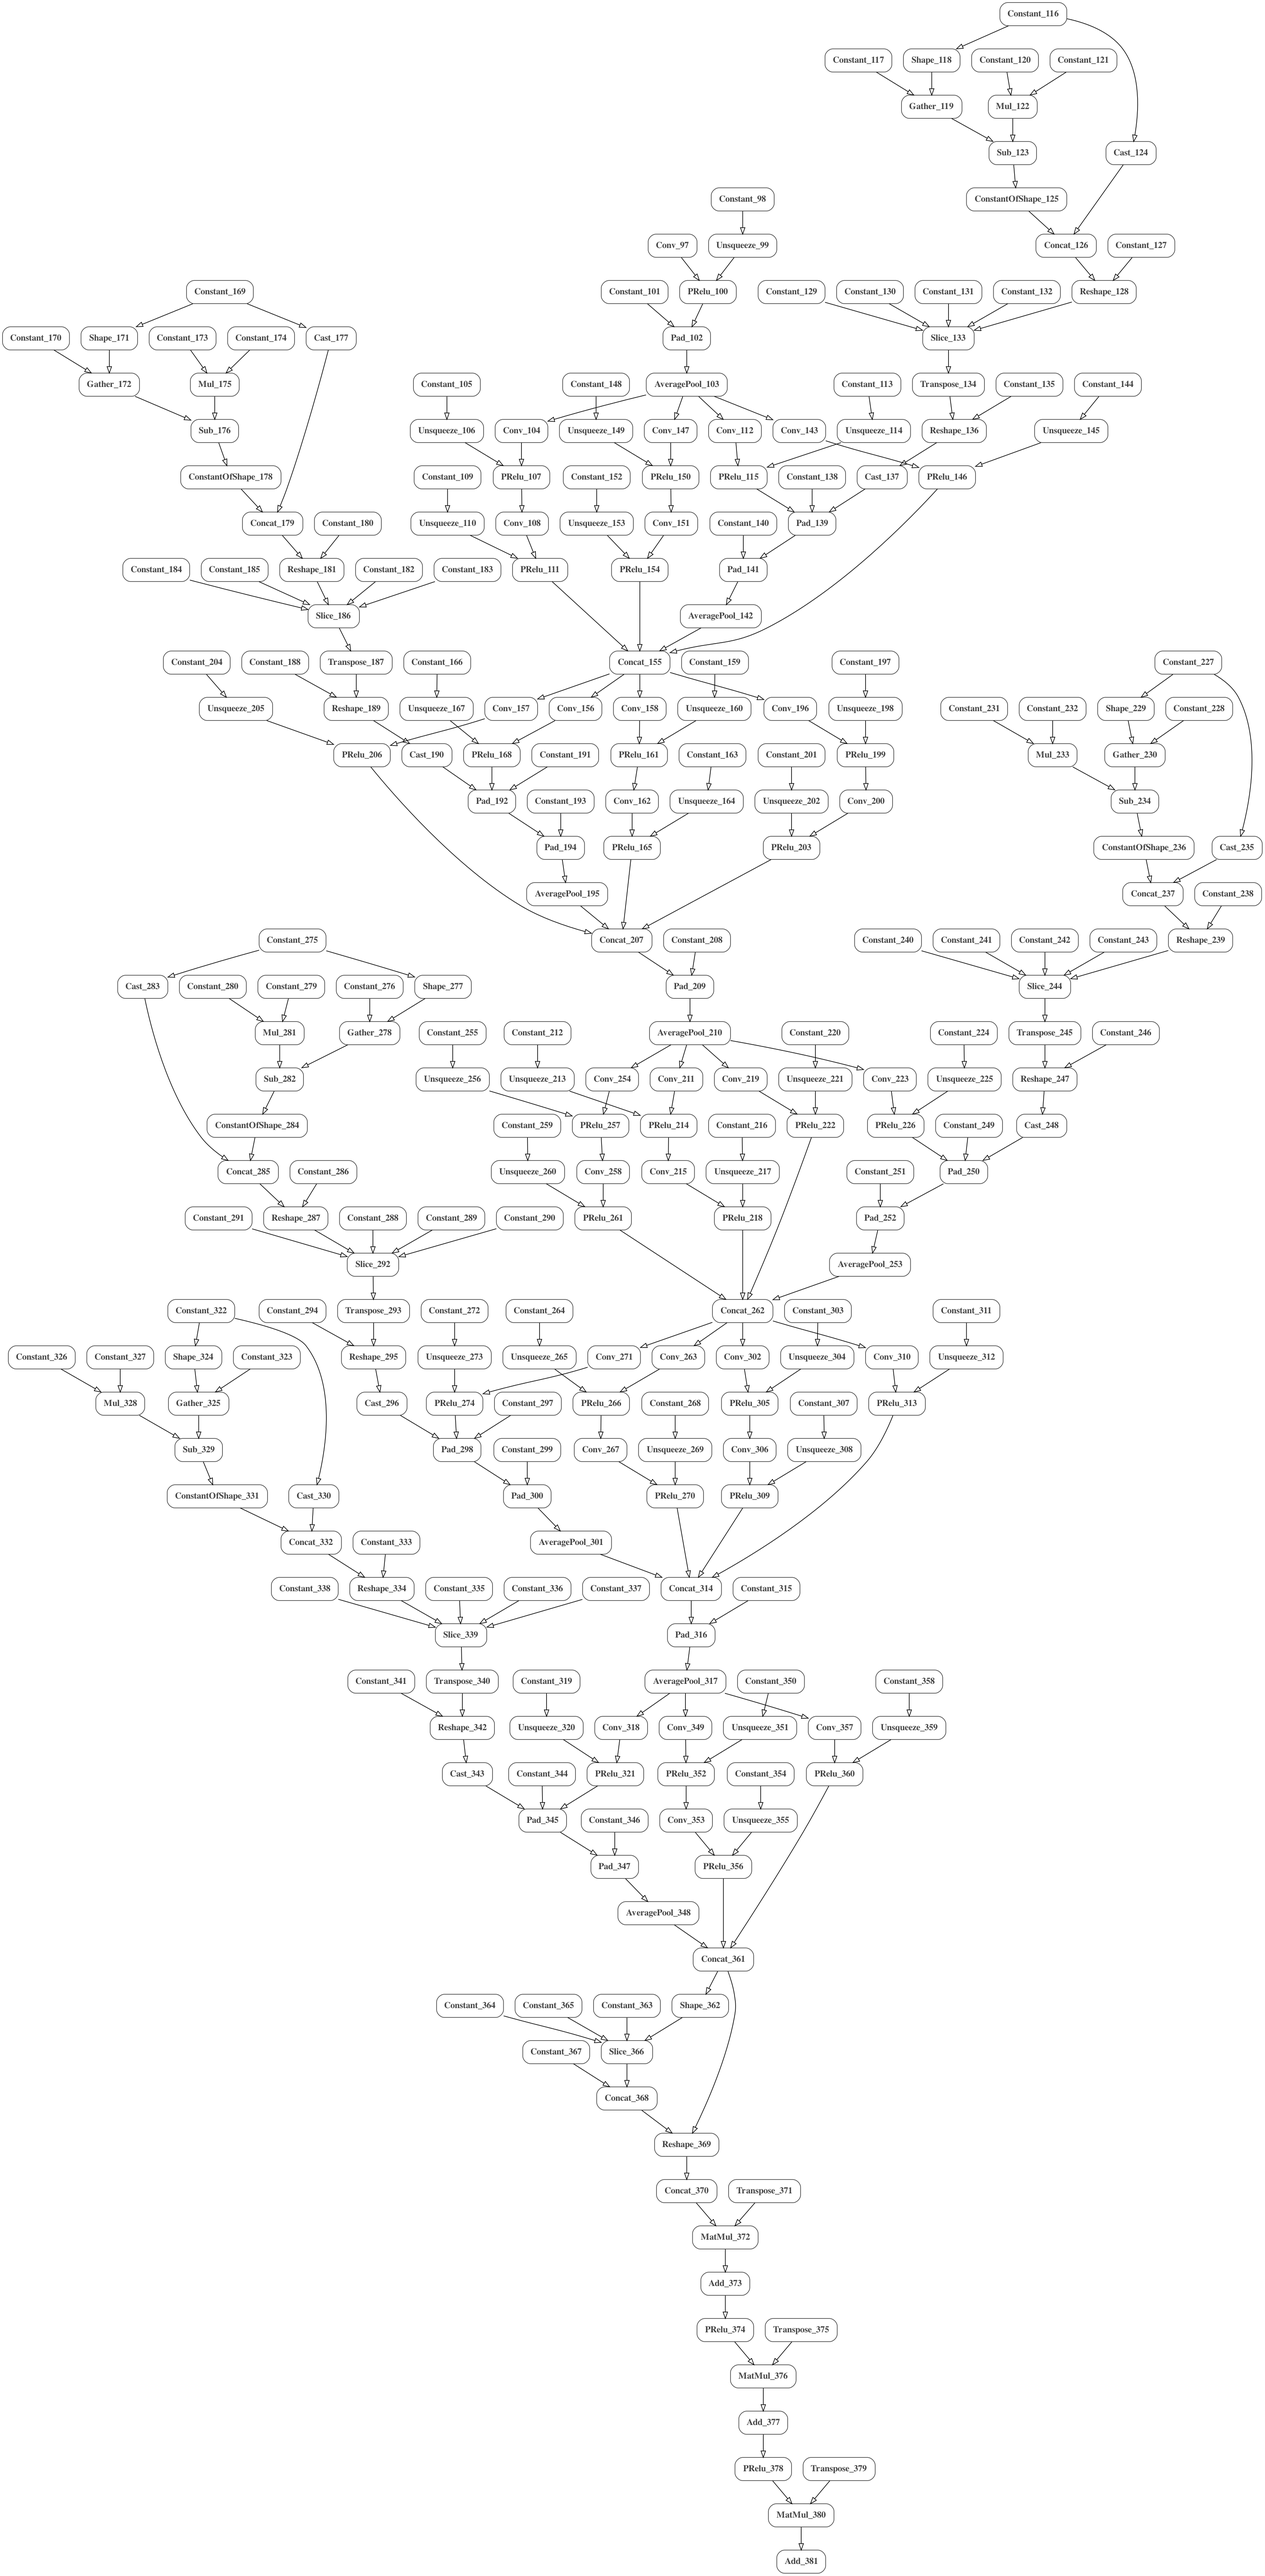
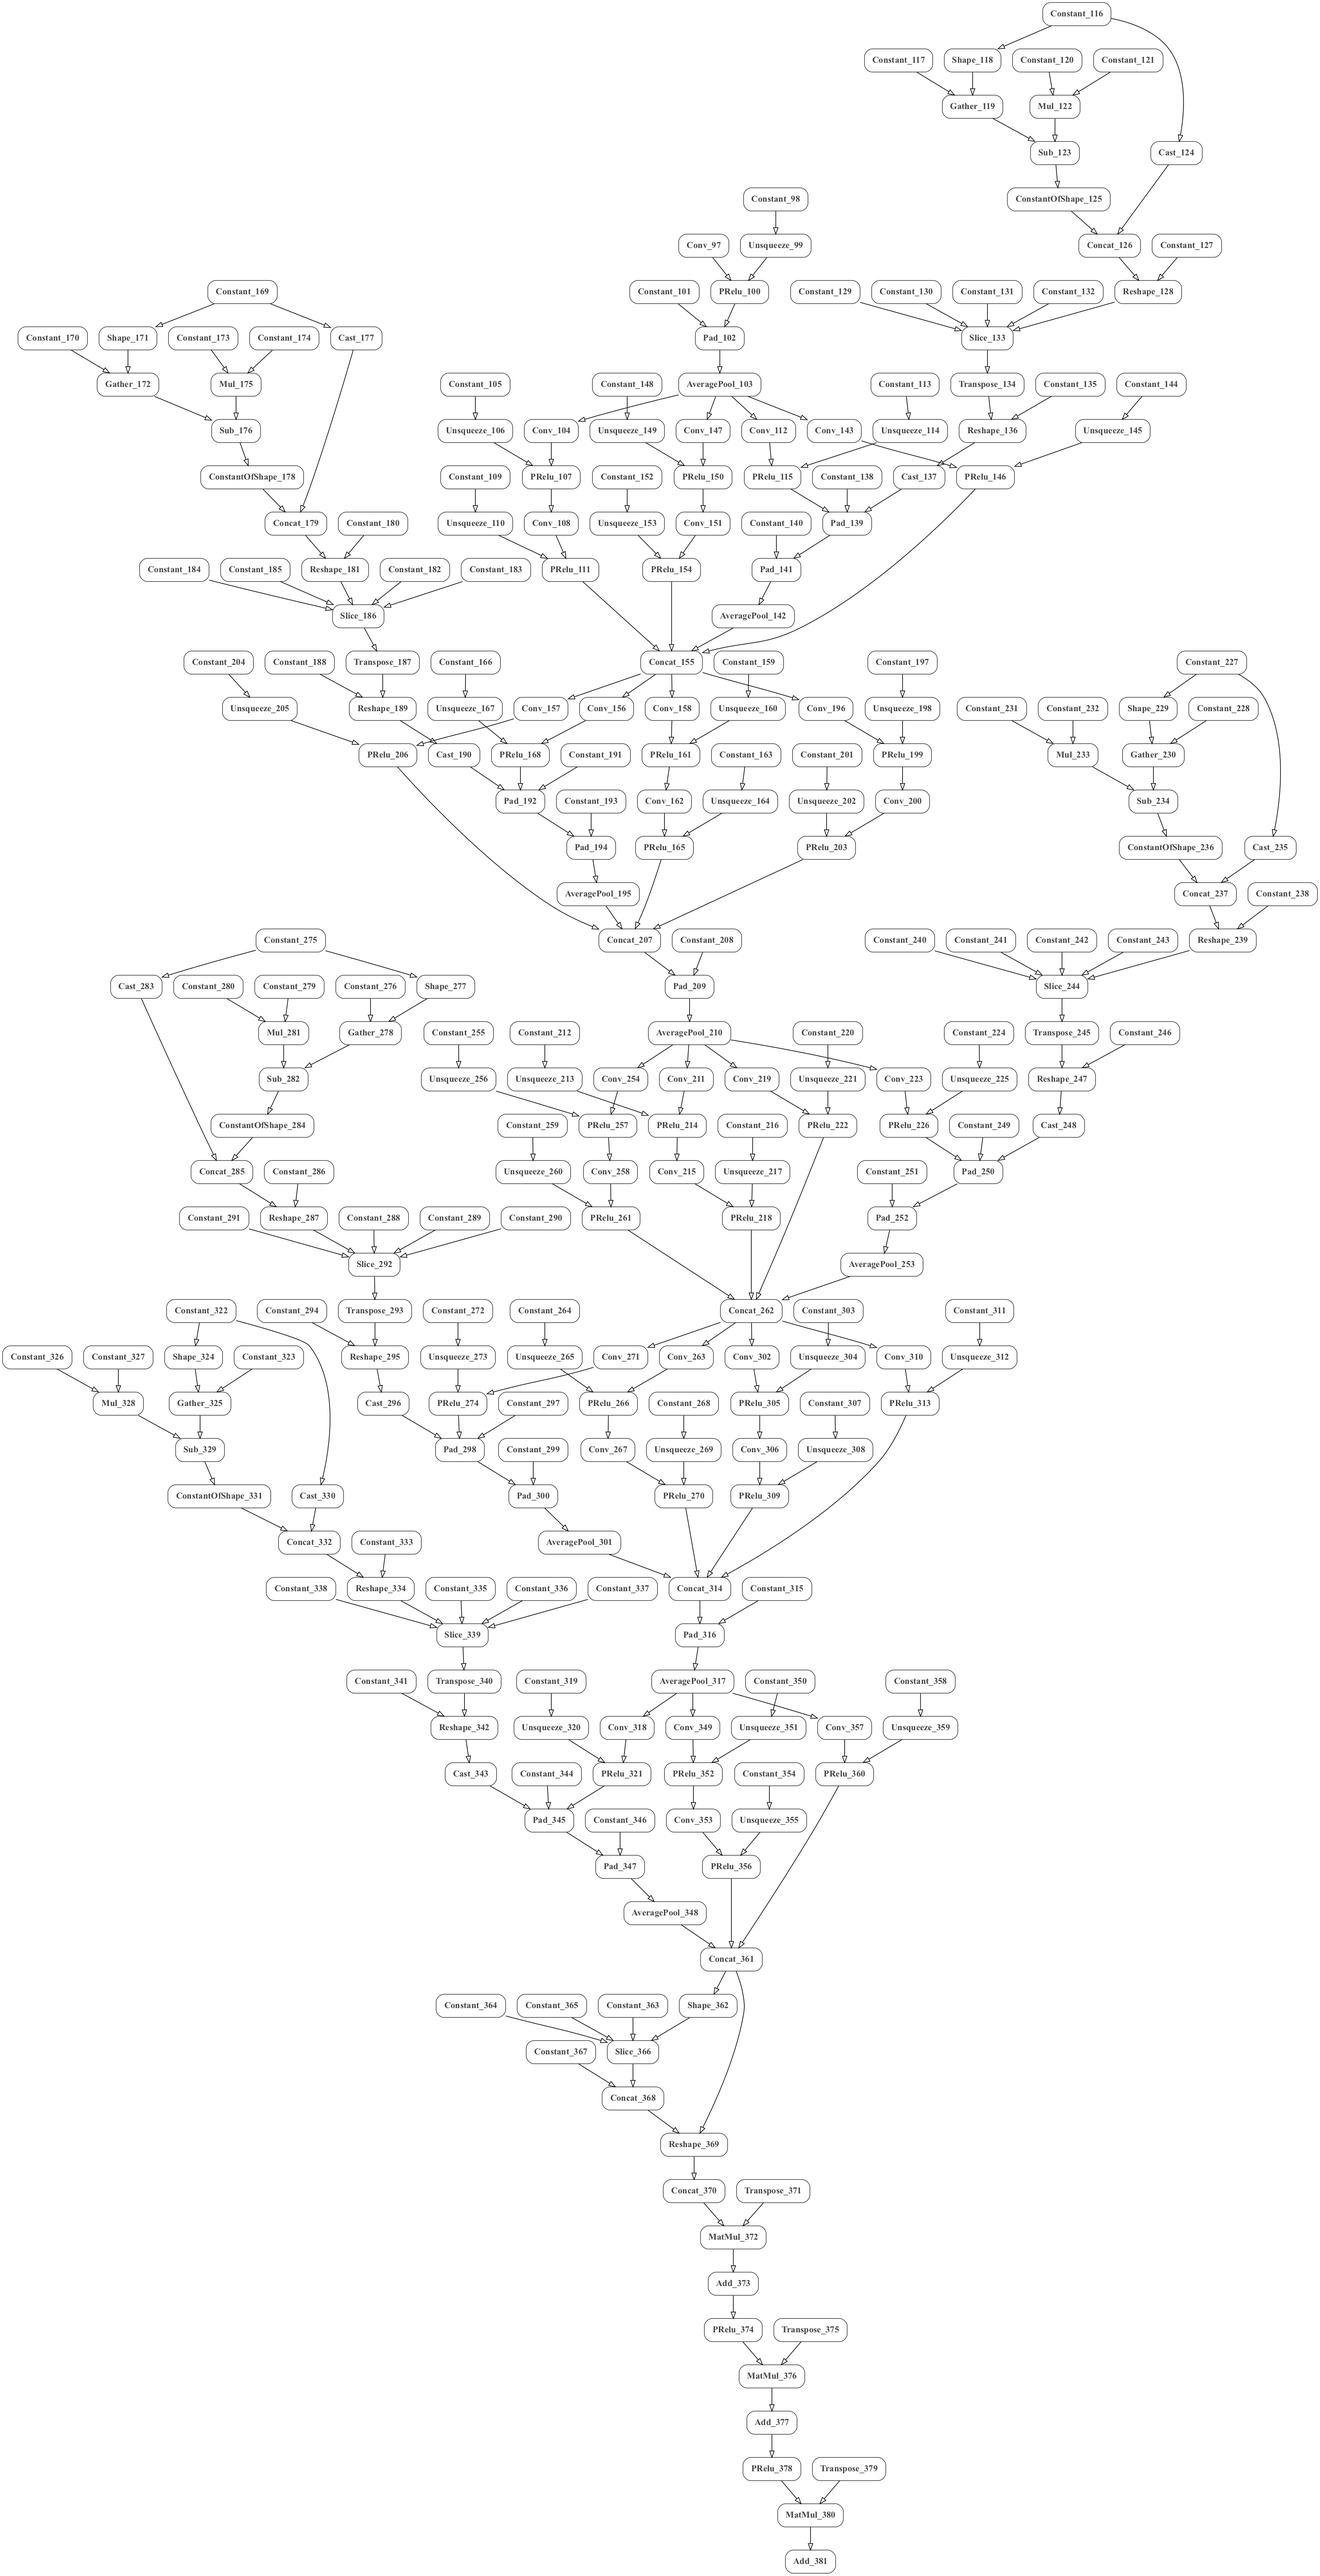
Add image for inception in mdf

diff --git a/examples/PyTorch/inception.py b/examples/PyTorch/inception.py
@@ -263,6 +263,10 @@ def main():
     # Run the model once to get some ground truth outpot (from PyTorch)
     output = model(galaxy_images_output, ebv_output).detach().numpy()
 
+    from modelspec.utils import _val_info
+    #print("Inputs: %s, %s"% (_val_info(galaxy_images_output),_val_info(ebv_output)))
+    print("Evaluated the graph in PyTorch, output: %s"% (_val_info(output)))
+
     # Convert to MDF
     mdf_model, params_dict = pytorch_to_mdf(
         model=model,
@@ -282,11 +286,14 @@ def main():
     # Evaluate the model via the MDF scheduler
     eg = EvaluableGraph(graph=mdf_graph, verbose=False)
     eg.evaluate(initializer=params_dict)
+    output_mdf = eg.enodes["Add_381"].evaluable_outputs["_381"].curr_value
+
+    print("Evaluated the graph in PyTorch, output: %s"% (_val_info(output_mdf)))
 
     # Make sure the results are the same betweeen PyTorch and MDF
     assert np.allclose(
         output,
-        eg.enodes["Add_381"].evaluable_outputs["_381"].curr_value,
+        output_mdf,
     )
     print("Passed all comparison tests!")
 

diff --git a/examples/PyTorch/README.md b/examples/PyTorch/README.md
@@ -8,7 +8,8 @@ several working examples of this functionality.
 
 ### Inception Blocks Model
 
-![Inception](inception.svg?raw=1)
+![Inception from PyTorch](inception.svg?raw=1)
+<img alt="Inception MDF" height="500" src="inception.png"/>
 
 To run an example of converting a PyTorch InceptionV3 like model written in PyTorch
 to its MDF representation simply run:
@@ -21,6 +22,12 @@ This will define the model in PyTorch, invoke the TorchScript tracing compiler,
 convert the underlying IR representation of the model to MDF. The MDF for this
 model is the written to [inception.json](inception.json). The model is then executed
 via the MDF scheduler and the results are compared to the native execution in PyTorch.
+
+The graph representation of the MDF model can be generated with:
+
+```bash
+python inception.py -graph
+```
 
 
 ### Multi-Layer Perceptron MDF to PyTorch Conversion
